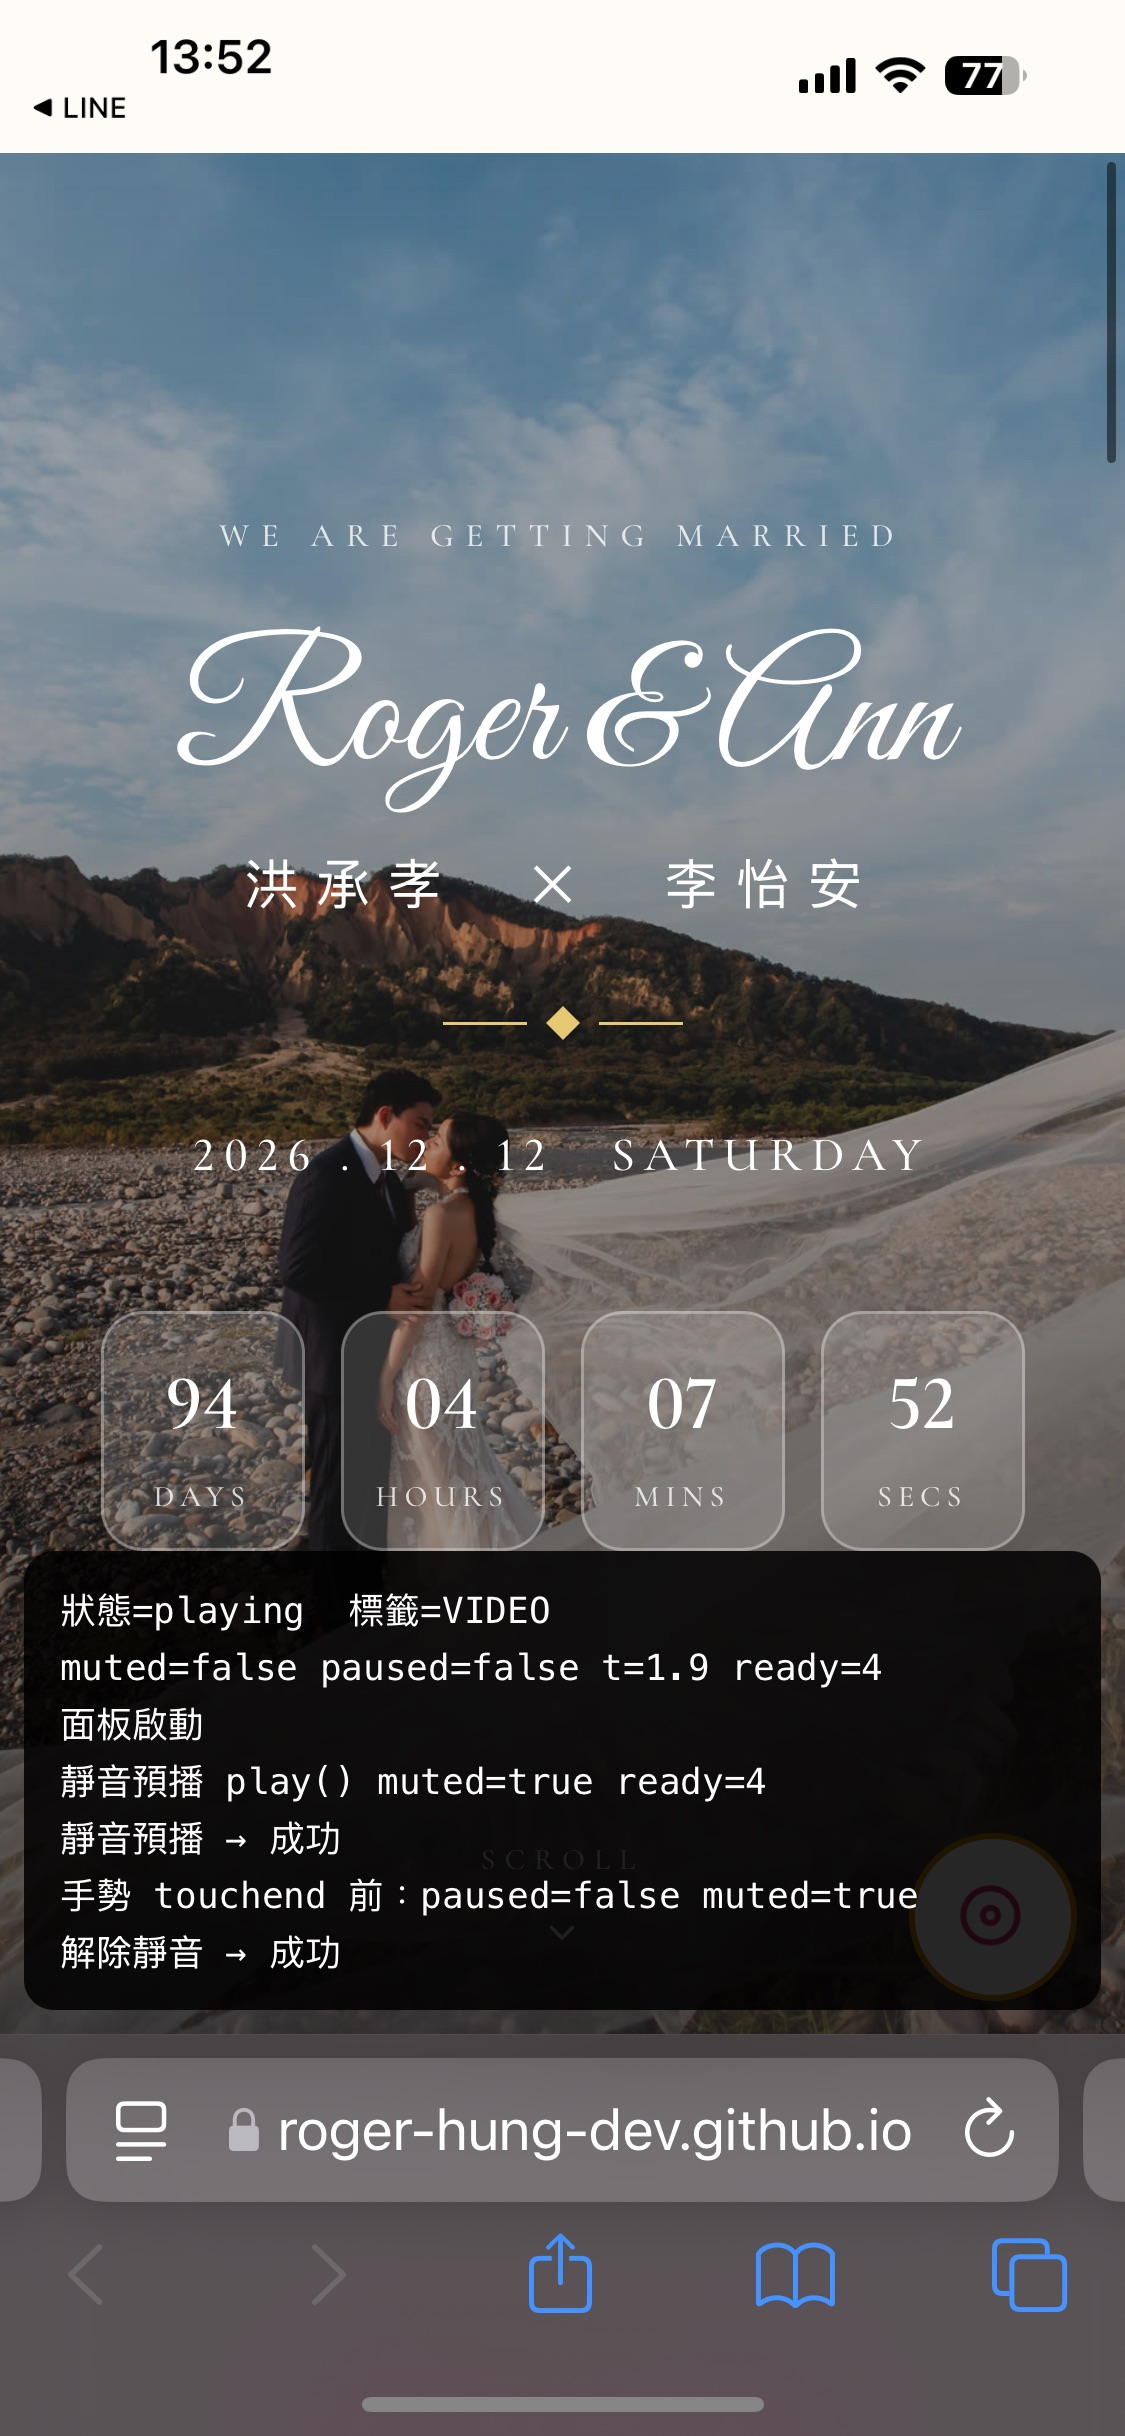
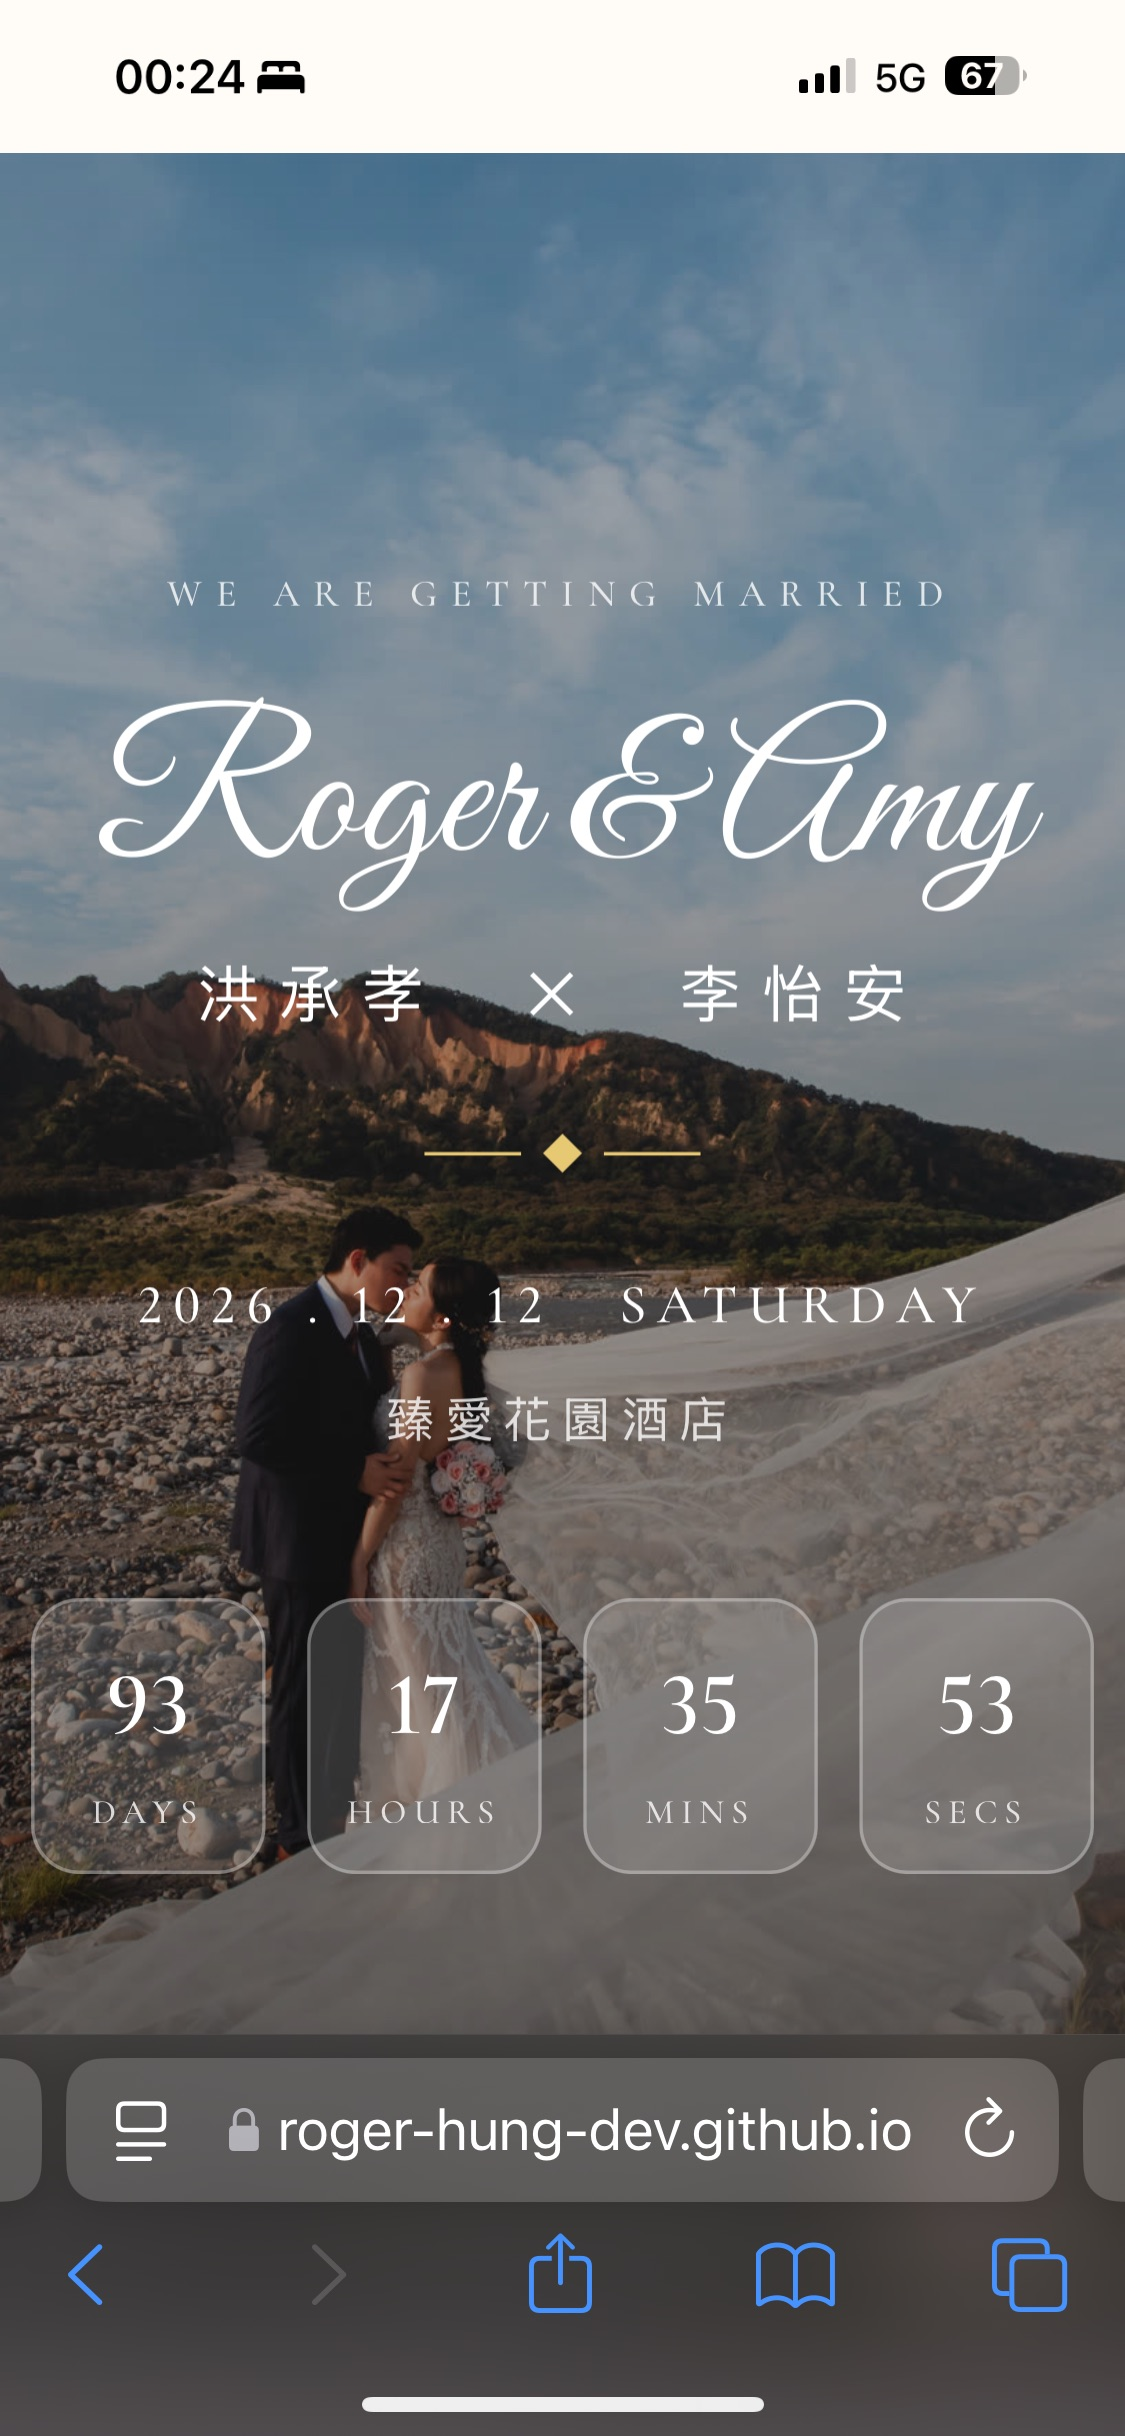
fix(hero): 調整手機版封面版位避免婚期與地點遮住臉部
底圖裡兩人的臉落在畫面 y 305-347，原本的排版正好讓婚期與宴客地點壓在
臉上。把「眉標 -> 宴客地點」整組上移 85px（地點底部停在 295，頭頂之上
10px），倒數格留在原處，空出來的 85px 全部灌進倒數的 margin-top；再把
飾線以上的三個元素往下讓 12px，避免整組貼著畫面頂端。

桌機版四個對應屬性都有各自的 media query 覆寫，不受影響；430 寬的手機
實測也成立，不需要另外拆斷點。

Claude-Session: https://claude.ai/code/session_01EtyGqRvKnaNWwW6F2haUoy

diff --git a/src/app/features/hero/hero.component.scss b/src/app/features/hero/hero.component.scss
@@ -43,6 +43,19 @@
   background: linear-gradient(180deg, rgba(0, 0, 0, 0) 0%, rgba(0, 0, 0, 0.55) 100%);
 }
 
+/*
+  手機版的四個間距（本區塊的 padding-top、飾線／婚期的 margin-top、倒數的 margin-top）
+  是一組互相牽制的數字，不要單獨調其中一個。
+
+  背景照片裡兩人的臉落在畫面 y 305–347 之間，原本的排版正好讓婚期與宴客地點
+  壓在臉上。做法是把「眉標 → 宴客地點」整組上移 85px，讓地點底部停在 295
+  （頭頂之上 10px），倒數格則留在原處 —— 於是空出來的 85px 全部累加到
+  倒數的 margin-top（40 → 125），臉的周圍因此是一片乾淨的留白。
+  之後再把飾線以上的三個元素往下讓 12px，避免整組貼著畫面頂端。
+
+  ⛔ 照片的裁切位置會隨視窗尺寸改變，臉的位置也跟著跑。這組數字是照
+  337×556（賓客手機開了「放大顯示」時的等效尺寸）量出來的，換一個尺寸要重量。
+*/
 .hero__content {
   position: relative;
   z-index: 2;
@@ -50,7 +63,7 @@
   flex-direction: column;
   align-items: center;
   width: 100%;
-  padding: 120px 24px 0;
+  padding: 59px 24px 0;
   text-align: center;
 }
 
@@ -86,7 +99,7 @@
   display: flex;
   align-items: center;
   gap: 8px;
-  margin-top: 28px;
+  margin-top: 16px;
   transition-delay: 900ms;
 }
 
@@ -104,7 +117,7 @@
 }
 
 .hero__date {
-  margin: 28px 0 0;
+  margin: 16px 0 0;
   font-size: 16px;
   font-weight: 500;
   letter-spacing: 3px;
@@ -126,10 +139,11 @@
   transition-delay: 1060ms;
 }
 
+/* margin-top 吃掉了上面那組上移的 85px，倒數格才會停在原本的位置。 */
 .hero__countdown {
   display: flex;
   gap: 12px;
-  margin-top: 40px;
+  margin-top: 125px;
 }
 
 .hero__countdown-cell {

diff --git a/.claude/docs/design/wedding-invite-20260904/wedding-home.md b/.claude/docs/design/wedding-invite-20260904/wedding-home.md
@@ -625,25 +625,35 @@ RFP §2 意願調查區。
 
 ```
 S1 Hero 390×844   fill=stock 圖 + 疊一層 $overlay-dark 漸層（上 0% → 下 55%）
-└ 內容欄 342×fit  layout=vertical alignItems=center  pad [120,24,0,24]  gap 0
+└ 內容欄 342×fit  layout=vertical alignItems=center  pad [59,24,0,24]  gap 0
   ├ 眉標 "WE ARE GETTING MARRIED"  h=16
   ├ (spacer 20)
   ├ 英文姓名 "Ethan & Chloe"       h=72
   ├ (spacer 8)
   ├ 中文姓名 "陳彥廷 ✕ 林思妤"      h=26
-  ├ (spacer 28)
+  ├ (spacer 16)
   ├ 飾線群組 80×12  layout=horizontal alignItems=center gap 8   ← 28+8+8+8+28 = 80（原寫 72，算錯）
   │ ├ 線 28×1 ／ 菱形 8×8（旋轉 45°，可用 polygon） ／ 線 28×1
-  ├ (spacer 28)
+  ├ (spacer 16)
   ├ 婚期 "2026 . 12 . 12　SATURDAY" h=22
   ├ (spacer 12)
   ├ 宴客地點 "臻愛花園酒店"          h=20   ← 只放酒店名，樓廳留給 S3
-  ├ (spacer 40)
+  ├ (spacer 125)                            ← 空的，讓臉露出來，見下方說明
   └ 倒數群組 308×80  layout=horizontal gap 12
     └ 格×4 68×80  layout=vertical alignItems=center justifyContent=center gap 4
       ├ 數字 h=34
       └ 標籤 h=12
-高度驗算：120+16+20+72+8+26+28+12+28+22+12+20+40+80 = 504（內容底 y=504；實測文字高略小，餘量落在底部留白）
+高度驗算：59+16+20+72+8+26+16+12+16+22+12+20+125+80 = 504（內容底 y=504；實測文字高略小，餘量落在底部留白）
+
+⛔ **上面四個間距（pad-top 59、飾線前 16、婚期前 16、倒數前 125）是一組，不要單獨調其中一個。**
+底圖裡兩人的臉落在畫面 y 305–347。初版的排版（pad-top 120、兩個 spacer 28、倒數前 40）
+正好讓婚期與宴客地點壓在臉上。改法是把「眉標 → 宴客地點」整組上移 85，
+讓地點底部停在 295（頭頂之上 10），**倒數群組留在原處** —— 空出來的 85 全部灌進
+倒數前的 spacer（40 → 125），臉的四周因此是一整片留白。之後再把飾線以上的三個元素
+往下讓 12（兩個 spacer 28 → 16），避免整組貼著畫面頂端。
+總高仍是 504：−61（pad）−24（兩個 spacer）+85（倒數前 spacer）= 0，這是改動有沒有算錯的檢核點。
+⚠ 底圖是 `object-fit: cover`，裁切位置隨視窗尺寸改變，臉也跟著跑。這組數字是照
+337×556（手機開了「放大顯示」時的等效視窗）量的；430 寬實測也成立，但換底圖就要重量。
 
 ⚠ **宴客地點的字級與亮度都比婚期低一階**（手機 14／桌機 17，色 `$text-invert-muted`）。
 日期是主角、地點是它的補充；兩行同樣大小會讓這一區變成兩個並列的重點，反而都不突出。
